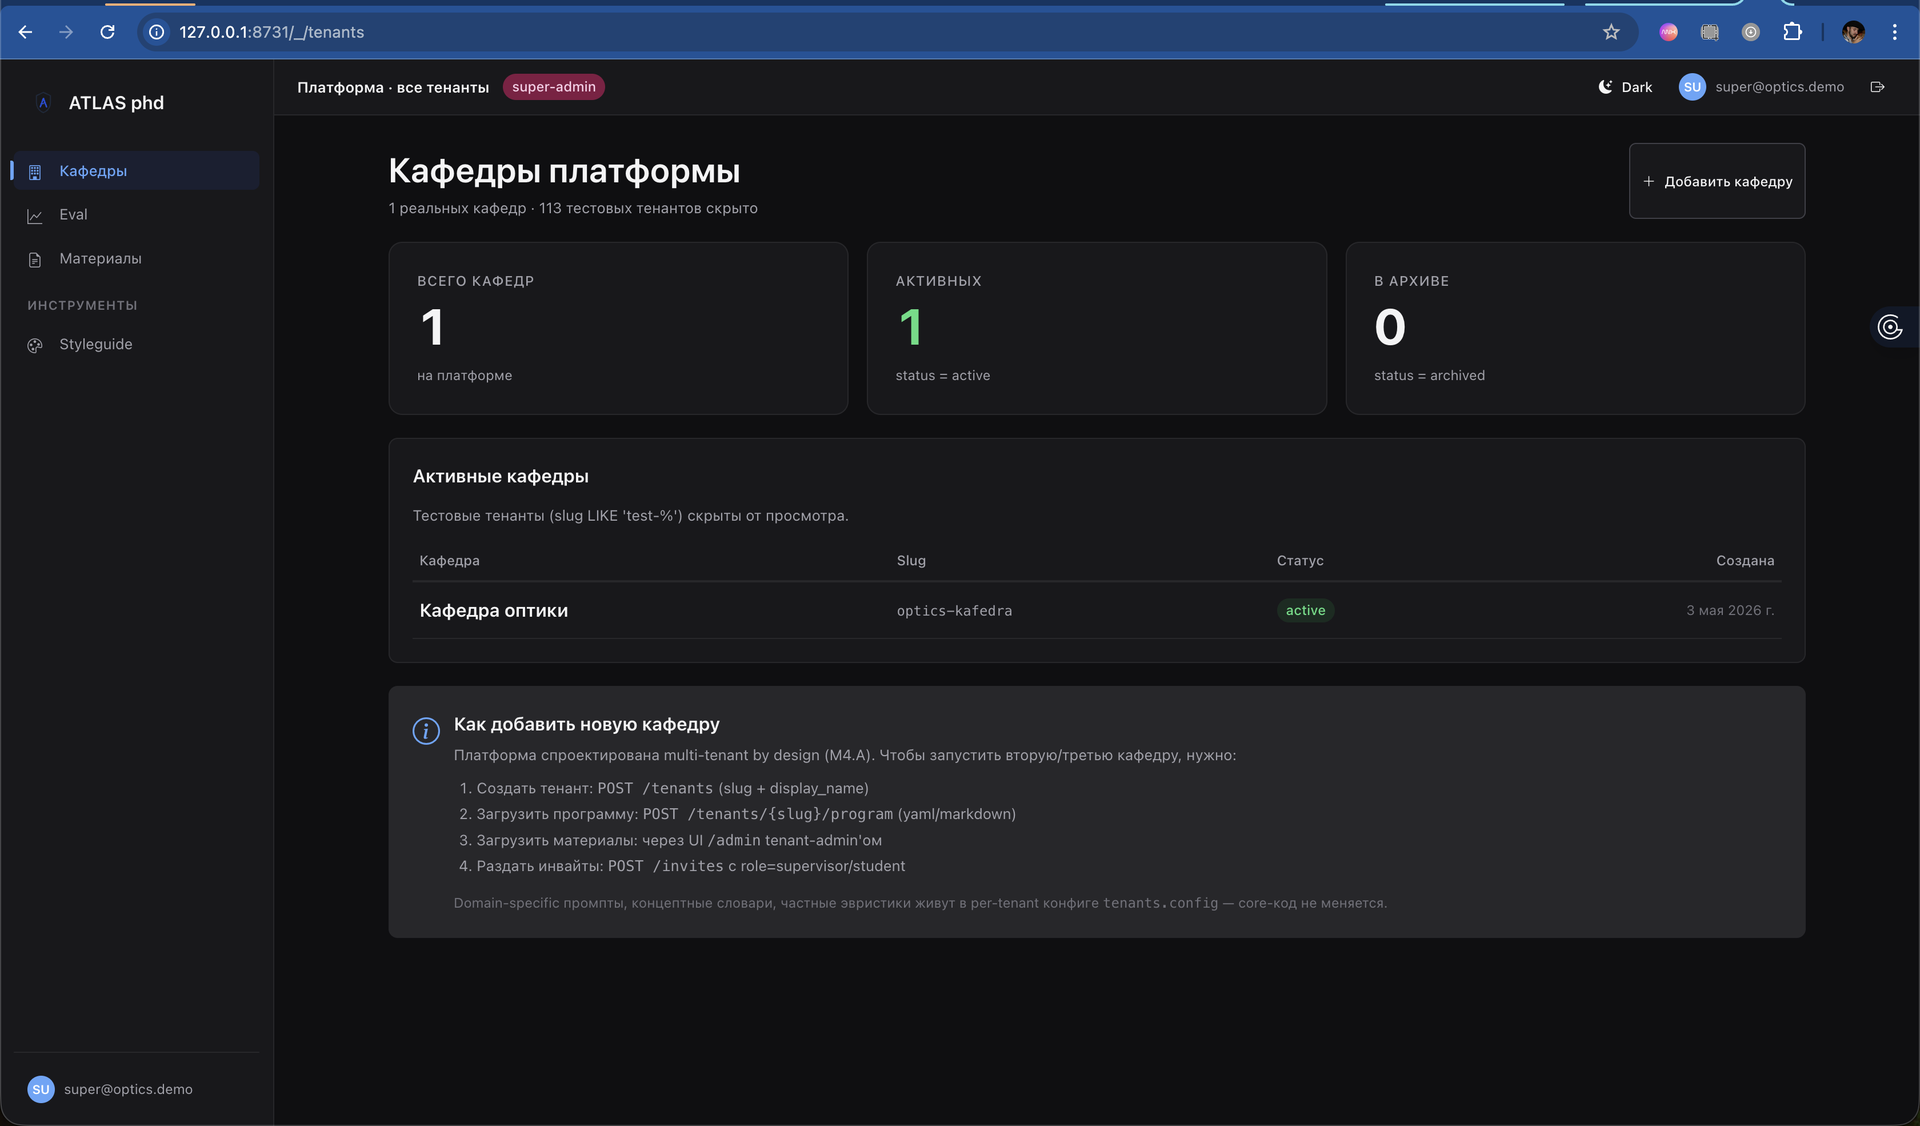
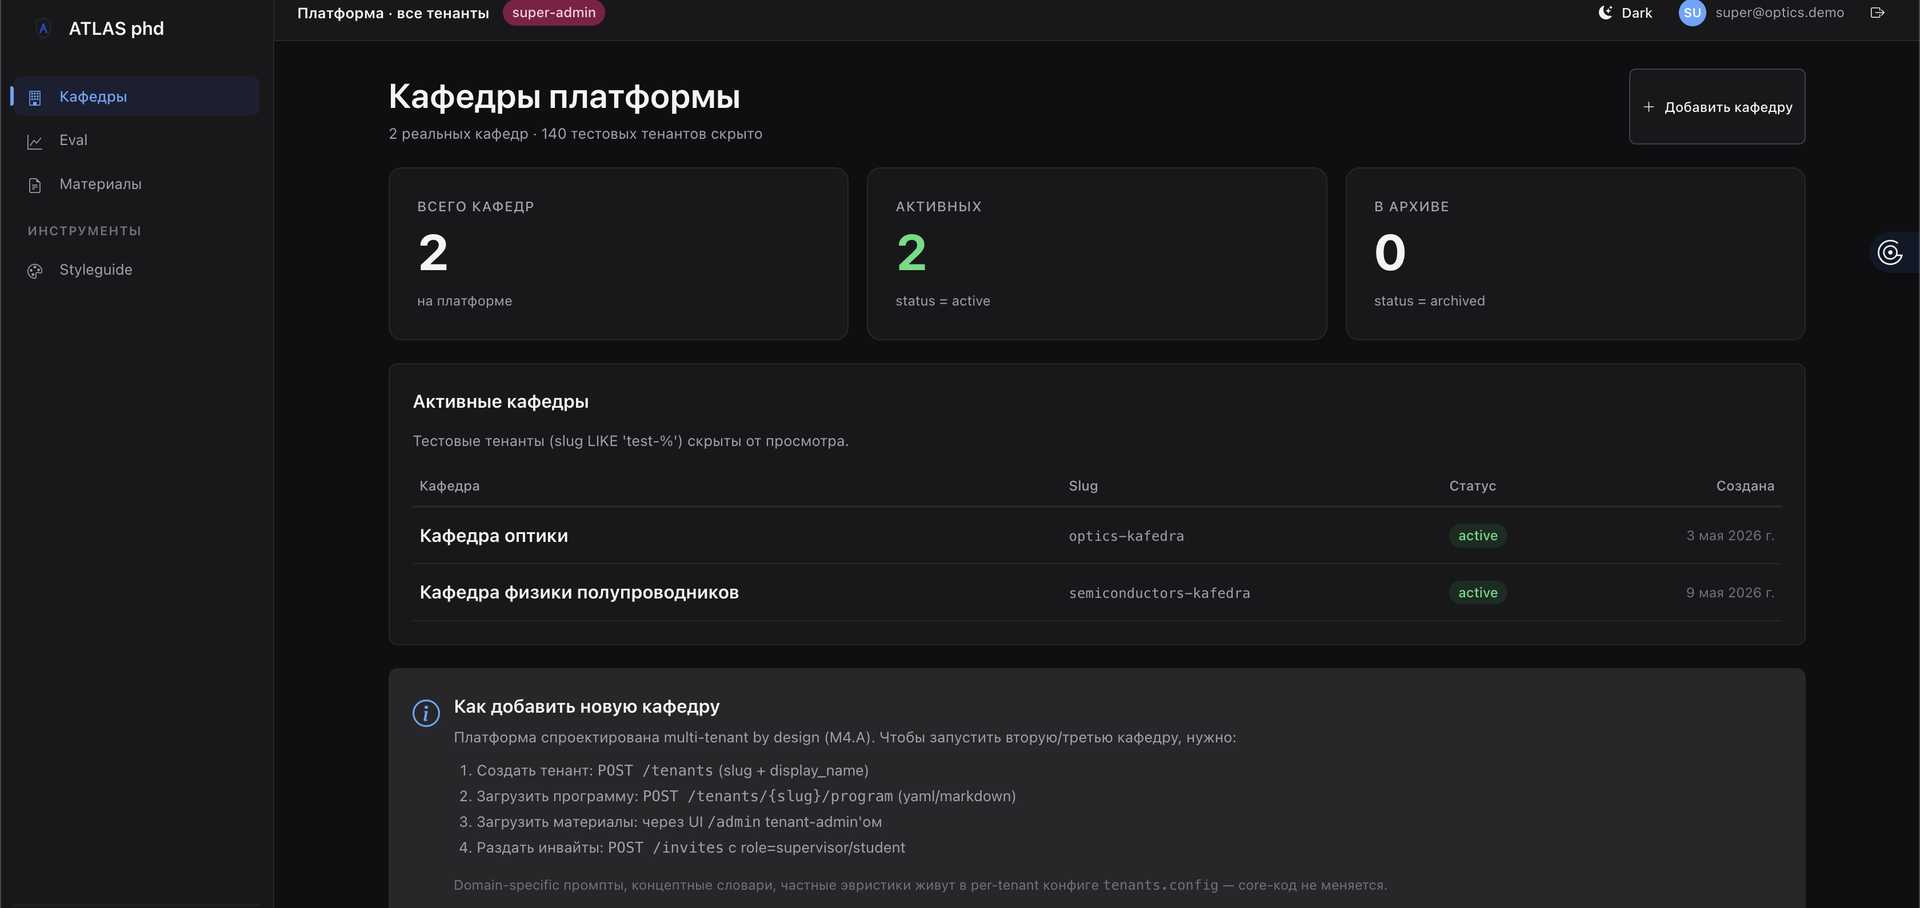
feat: топики привязаны к корпусу + 3 новых скриншота (multi-tenancy proof)
Topic attachment:
- Эвристический keyword-match (≥3 chunks с key_concept'ами топика) →
  POST /tenants/{slug}/materials/{id}/topics для каждого пары
  (документ × топик). Прогон через psycopg2 на localhost:5432
  (docker exec недоступен в локальной shell).
- optics-kafedra: все 6 топиков покрыты (951–4006 chunks).
  Born&Wolf → 5 топиков, Матвеев → все 6, Yariv → 1.3+2.3.
- semiconductors-kafedra: 6/6 топиков покрыты после ручного attach
  Mikhnenko к 2.2 (экситоны) + 3.1 (люминесценция).

Скриншоты для multi-tenancy proof:
- 09-tenants-list.png — обновлён: показывает 2 кафедры вместо 1
  (всего 2, активных 2; 140 тестовых тенантов скрыты).
- 11-tenant-admin-semicon.png — новый: программа semicon-кафедры
  с заполненными coverage-bars (зелёные 100%), 2996 chunks из 4
  PDF, 5 студентов.
- 12-chat-semicon-isolation.png — новый: чат под orlov@semicon.demo,
  ответ ТОЛЬКО с цитатами из Lect_opt + Lections_combined (semicon
  корпус). Born/Wolf/Matveev/Yariv (optics-корпус) отсутствуют —
  retrieval на retrieval-уровне жёстко изолирован per-tenant.

Прочее:
- src/atlas/api/routers/web.py: расширил guard для /_/demo-login —
  теперь принимает @optics.demo + @semicon.demo emails (раньше только
  @optics.demo). Нужно для screenshot-helper'а под Кузнецовым/Орловым.
- docs/design/screenshots/after/README.md: добавлен Шаг 7а
  «Multi-tenancy: вторая кафедра в работе» с обоими новыми скринами
  и тезисом изоляции.
- README.md (top-level): showcase grid 3-up → 4-up, добавлен
[…]

diff --git a/src/atlas/api/routers/web.py b/src/atlas/api/routers/web.py
@@ -135,15 +135,16 @@ async def demo_login_helper(email: str, next: str = "/"):
     'demo' password, saves the resulting token to localStorage, and
     redirects to ?next=<path>.
 
-    Strict guard: ONLY emails ending in '@optics.demo' are accepted.
-    Any other email returns 404 (not 403, to avoid hint of route
-    existence).
+    Strict guard: ONLY emails on demo tenants are accepted (currently
+    `@optics.demo` and `@semicon.demo`). Any other email returns 404
+    (not 403, to avoid hint of route existence).
 
     Disabled in production: settings.app_env == 'production' returns 404.
     """
     if getattr(settings, "app_env", "development") == "production":
         raise HTTPException(status_code=404)
-    if not email.endswith("@optics.demo"):
+    DEMO_DOMAINS = ("@optics.demo", "@semicon.demo")
+    if not any(email.endswith(d) for d in DEMO_DOMAINS):
         raise HTTPException(status_code=404)
     # Validate next is same-origin path (no open redirect).
     if not next.startswith("/") or next.startswith("//"):

diff --git a/docs/design/screenshots/after/README.md b/docs/design/screenshots/after/README.md
@@ -174,19 +174,35 @@
 
 Под super-admin. Кросс-тенантный view.
 
-**3 hero:** всего кафедр **1** / активных **1** / в архиве **0**. (Подзаголовок: «1 реальных кафедр · 113 тестовых тенантов скрыто».)
+**3 hero:** всего кафедр **2** / активных **2** / в архиве **0**. (Подзаголовок: «2 реальных кафедр · 140 тестовых тенантов скрыто».)
 
-**Таблица:** одна строка — Кафедра оптики (slug `optics-kafedra`, status `active`, создана 3 мая 2026).
+**Таблица — две строки:**
+- Кафедра оптики (slug `optics-kafedra`, активна, создана 3 мая 2026)
+- Кафедра физики полупроводников (slug `semiconductors-kafedra`, активна, создана 9 мая 2026)
 
-**Onboarding-hint card** с пошаговой инструкцией добавления второй кафедры:
+**Onboarding-hint card** с пошаговой инструкцией добавления N+1 кафедры:
 1. POST /tenants (slug + display_name)
 2. POST /tenants/{slug}/program (yaml/markdown)
 3. UI /admin tenant-admin'ом
 4. POST /invites с role
 
-**Тезис:** платформенность M4.A — пилот это одна кафедра, но архитектурно поддерживается N. Domain-specific промпты живут в per-tenant конфиге `tenants.config` — core-код не меняется.
+**Тезис:** платформенность M4.A — multi-tenant by design. Вторая кафедра загружена на 9 мая 2026 (пилот → multi-tenant proof в течение одной недели разработки): отдельная программа 01.04.10 «Физика полупроводников», отдельный корпус (4 PDF), отдельные пользователи, изолированный retrieval. Domain-specific промпты живут в per-tenant конфиге — core-код не меняется.
 
-**Демо-сценарий:** «Сейчас на платформе одна кафедра — оптики ИТМО. Архитектурно — multi-tenant by design. Добавить вторую (физмат, химию, биологию) — это API-flow по 4 командам, не переписывание системы».
+**Демо-сценарий:** «На платформе две реальные кафедры. Они полностью изолированы — корпус, программа, пользователи. На retrieval-уровне студент одной кафедры физически не видит документов другой. Добавление третьей — API-flow по 4 командам».
+
+---
+
+## Шаг 7а — Multi-tenancy: вторая кафедра в работе
+
+![tenant-admin-semicon](11-tenant-admin-semicon.png)
+
+**`/tenant-admin` под `admin@semicon.demo`:** Кузнецов И. А. видит свою кафедру — программу 01.04.10 «Физика полупроводников», все 6 топиков с заполненным coverage (зелёные bar-fills 100%), 2996 chunks из 4 учебных PDF (Lect_opt, Lections_combined, ЛКО_книга, Mikhnenko-exciton), 5 студентов в активной кафедре.
+
+![chat-semicon-isolation](12-chat-semicon-isolation.png)
+
+**`/` под `orlov@semicon.demo`:** студент Орлов задаёт вопрос «Опишите взаимодействие электрона с электромагнитным полем в полупроводнике». Получает ответ с inline-цитатами `[1]` `[2]`. Source-panel показывает источники: `Lect_opt` и `Lections_combined` — **только из semicon-корпуса**, ни одного chunk'а из Born/Wolf/Matveev/Yariv (которые лежат в `optics-kafedra`).
+
+**Тезис изоляции (M4.A):** на этом же запросе студент кафедры оптики получит ответ из Born/Wolf/Matveev — semicon-материалы недоступны. retrieval-pipeline жёстко фильтрует `WHERE chunks.tenant_id = current_user.tenant_id` через partial HNSW индексы per-tenant. **Это и есть proof multi-tenancy** — не «слайд про возможности», а живой ответ системы.
 
 ---
 
@@ -215,13 +231,14 @@
 
 ## Скриншоты как набор для слайдов
 
-Все 10 PNG лежат в этой папке. Имена нумерованные → можно добавить в Keynote/PowerPoint в правильном порядке drag-and-drop.
+Все 12 PNG лежат в этой папке. Имена нумерованные → можно добавить в Keynote/PowerPoint в правильном порядке drag-and-drop.
 
 При размещении на слайдах рекомендую:
 1. **Шаг 2 (refusal)** — самая важная иллюстрация: ставить на отдельный слайд с увеличением
 2. **Шаг 6 (eval)** — крупно: hero-cards 1.000/1.000/<2s — это центральные цифры диссертации
 3. **Шаг 4 (supervisor)** — на слайд про «privacy by design» в M5
 4. **Шаги 1+1а (chat + source-modal)** — пара иллюстраций для описания verifiability
+5. **Шаг 7а (multi-tenancy proof)** — `11` + `12` парой: tenant-admin семикона + чат Орлова с цитатами только из semicon-корпуса. Это **живой proof multi-tenancy**, а не «слайд про возможности»
 
 ---
 
@@ -230,7 +247,8 @@
 ### Что нужно перед съёмкой
 
 ```bash
-./scripts/seed_demo.sh                                # users + hand-crafted attempts
+./scripts/seed_demo.sh                                # 1-я кафедра: users + hand-crafted attempts
+./scripts/seed_semicon_demo.sh                        # 2-я кафедра: tenant + program + 4 PDF + 7 users
 docker compose exec -T app python3 /app/scripts/seed_demo_real_attempts.py  # real LLM
 docker compose exec -T app python3 /app/scripts/seed_demo_showcase.py       # ivanov 4.5+ scores
 ```
@@ -255,6 +273,10 @@ http://127.0.0.1:8731/_/demo-login?email=admin@optics.demo&next=/_/invites
 # Под super-admin
 http://127.0.0.1:8731/_/demo-login?email=super@optics.demo&next=/eval
 http://127.0.0.1:8731/_/demo-login?email=super@optics.demo&next=/_/tenants
+
+# Под semicon-кафедрой (для шага 7а — multi-tenancy proof)
+http://127.0.0.1:8731/_/demo-login?email=admin@semicon.demo&next=/tenant-admin
+http://127.0.0.1:8731/_/demo-login?email=orlov@semicon.demo&next=/?ask=Опишите%20взаимодействие%20электрона%20с%20электромагнитным%20полем%20в%20полупроводнике.
 ```
 
 Получить актуальный best-attempt-id для шага 3 (selfcheck-rubric):

diff --git a/README.md b/README.md
@@ -24,18 +24,20 @@
 
 <table>
   <tr>
-    <td width="33%"><a href="docs/design/screenshots/after/README.md#шаг-1--чат-с-цитатами-ask"><img src="docs/design/screenshots/after/02-chat-citations.png" alt="Q&A with inline citations" /></a></td>
-    <td width="33%"><a href="docs/design/screenshots/after/README.md#шаг-2--refusal-экран-off-topic-askкакова-численность-населения-москвы"><img src="docs/design/screenshots/after/04-refusal-screen.png" alt="Hard-gate refusal screen" /></a></td>
-    <td width="33%"><a href="docs/design/screenshots/after/README.md#шаг-4--supervisor-heatmap-supervisor"><img src="docs/design/screenshots/after/06-supervisor-heatmap.png" alt="Supervisor heatmap" /></a></td>
+    <td width="25%"><a href="docs/design/screenshots/after/README.md#шаг-1--чат-с-цитатами-ask"><img src="docs/design/screenshots/after/02-chat-citations.png" alt="Q&A with inline citations" /></a></td>
+    <td width="25%"><a href="docs/design/screenshots/after/README.md#шаг-2--refusal-экран-off-topic-askкакова-численность-населения-москвы"><img src="docs/design/screenshots/after/04-refusal-screen.png" alt="Hard-gate refusal screen" /></a></td>
+    <td width="25%"><a href="docs/design/screenshots/after/README.md#шаг-4--supervisor-heatmap-supervisor"><img src="docs/design/screenshots/after/06-supervisor-heatmap.png" alt="Supervisor heatmap" /></a></td>
+    <td width="25%"><a href="docs/design/screenshots/after/README.md#шаг-7а--multi-tenancy-вторая-кафедра-в-работе"><img src="docs/design/screenshots/after/12-chat-semicon-isolation.png" alt="Multi-tenant isolation in chat" /></a></td>
   </tr>
   <tr>
     <td><b>Q&A с inline-цитатами</b><br/>Ответы строго по корпусу, кликабельные `[N]` pills открывают точный фрагмент учебника.</td>
     <td><b>Hard-gate первого класса</b><br/>На off-topic вопрос система <b>детерминированно отказывает</b> до обращения к LLM, за &lt;2 сек.</td>
     <td><b>Кафедральный режим</b><br/>Heatmap по 6 топикам, privacy mask: 5 из 12 студентов anonymized как «Аспирант #N».</td>
+    <td><b>Multi-tenancy</b><br/>Две кафедры (оптика + физика п/п) с изолированным retrieval. Студент semicon видит только semicon-источники.</td>
   </tr>
 </table>
 
-[**→ Полная аннотированная gallery 10 экранов**](docs/design/screenshots/after/README.md)
+[**→ Полная аннотированная gallery 12 экранов**](docs/design/screenshots/after/README.md)
 
 ---
 
